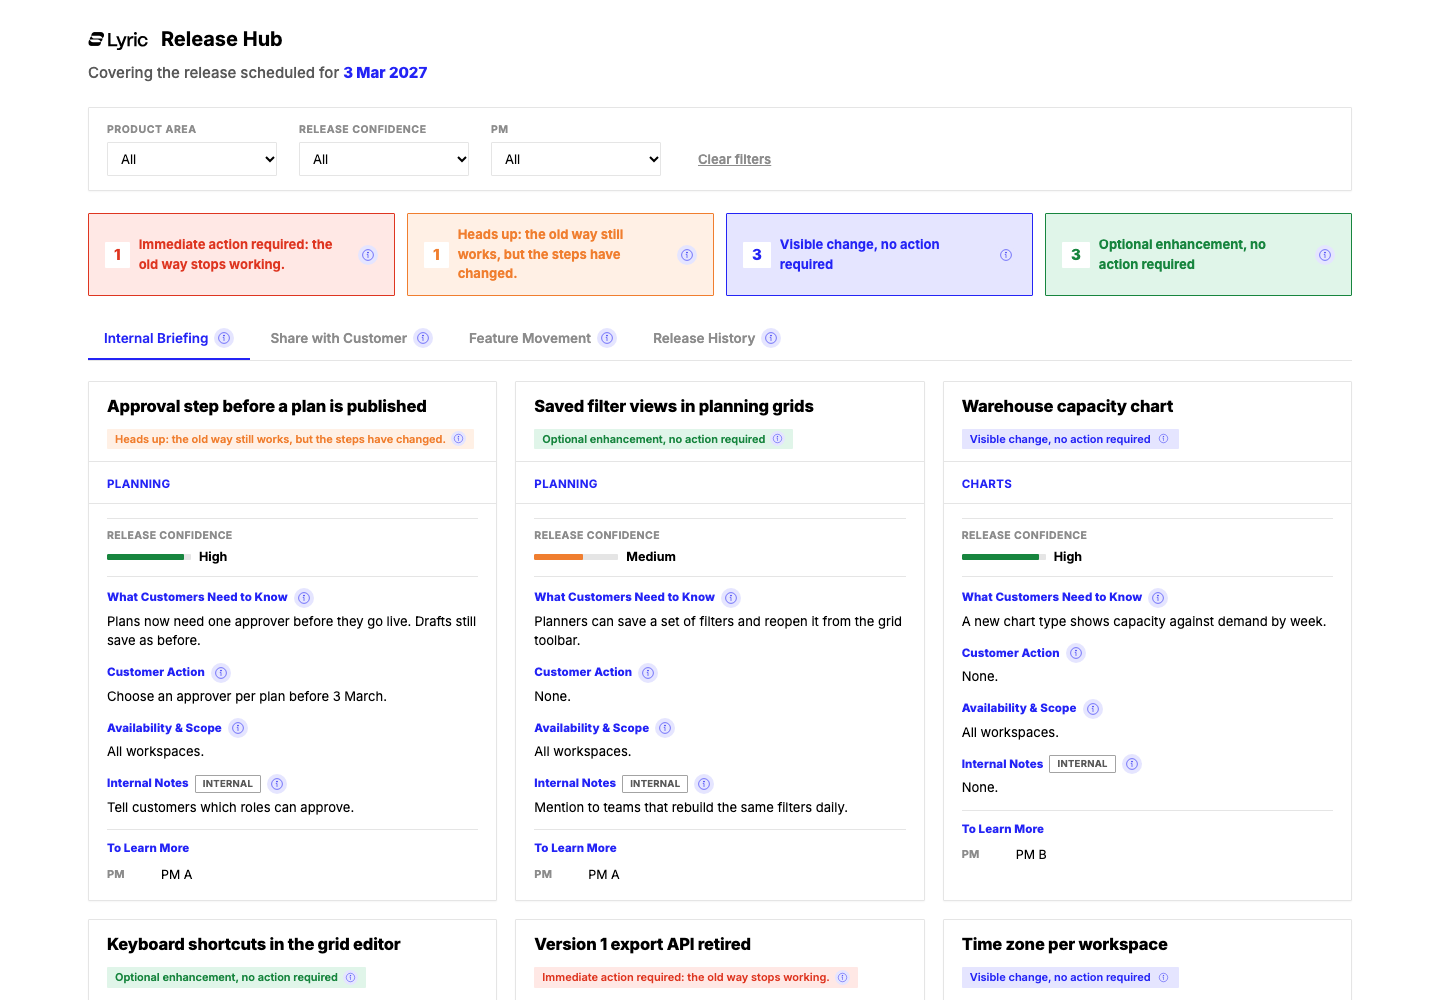
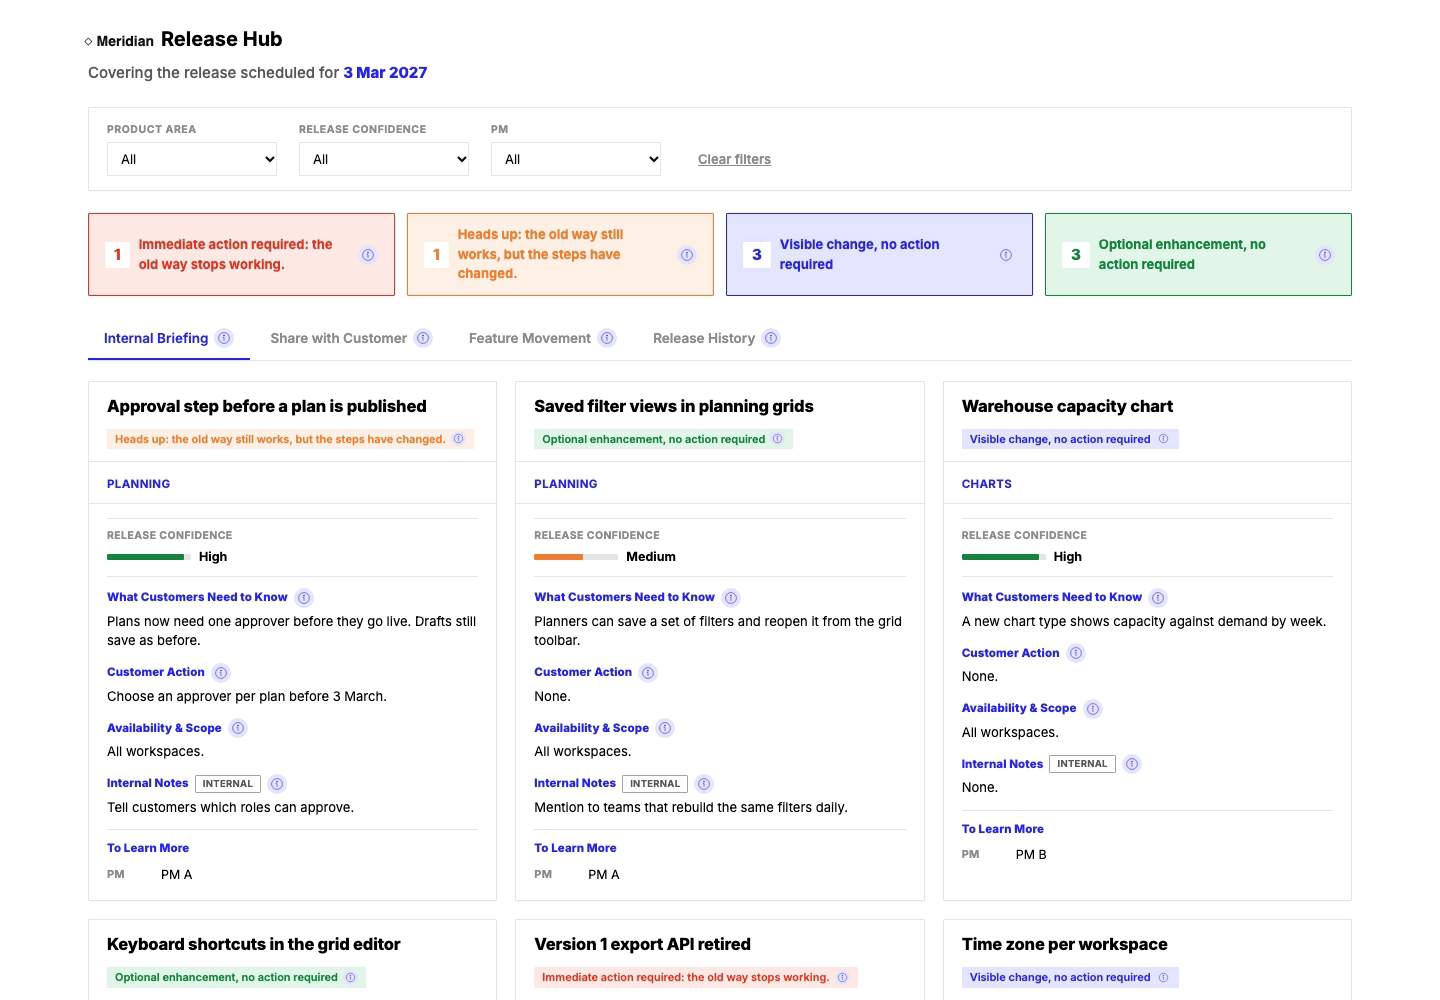
Rewrite /work with new copy, reframe prototypes, mask remaining images
- /work: Selected work copy with four featured cards and Leading the team
- Prototypes case study: prototypes show stakeholders the plan before
  implementation; live links; no prototype count
- Remove three unmasked prototype screenshots; docs-as-code uses the
  masked role-navigation image
- Replace the company logo in the Release Hub image

diff --git a/src/css/custom.css b/src/css/custom.css
@@ -629,3 +629,38 @@ h3 { font-size: 1.15rem; line-height: 1.3; letter-spacing: -0.01em; }
 .pg-out td:first-child { white-space: nowrap; }
 .pg-clip { display: block; width: 100%; border: 1px solid var(--vp-rule); border-radius: 12px; box-shadow: var(--vp-shadow); background: #fff; }
 .rn-media--m { max-width: 420px; }
+
+/* ---------- /work ---------- */
+.wk-lede { font-size: 1.18rem; line-height: 1.6; color: var(--vp-ink-2); max-width: 46rem; margin-bottom: 1.8rem; }
+.wk-stats { display: grid; grid-template-columns: repeat(4, minmax(0, 1fr)); gap: 0.9rem; margin: 0 0 2.6rem; }
+.wk-stat { border: 1px solid var(--vp-rule); border-top: 3px solid var(--vp-accent); border-radius: 10px; background: var(--vp-card); padding: 1rem 1rem 1.05rem; }
+.wk-stat strong { display: block; font-family: var(--vp-display); font-size: 1.9rem; line-height: 1.1; letter-spacing: -0.02em; color: var(--vp-ink); margin-bottom: 0.4rem; }
+.wk-stat span { display: block; font-size: 0.84rem; line-height: 1.45; color: var(--vp-ink-2); }
+.wk-team { display: grid; grid-template-columns: repeat(3, minmax(0, 1fr)); gap: 0.9rem; margin: 0 0 2.6rem; }
+.wk-team > div { border-left: 2px solid var(--vp-accent); padding: 0.1rem 0 0 0.9rem; }
+.wk-team p { font-size: 0.92rem; color: var(--vp-ink-2); margin: 0.35rem 0 0; }
+.wk-k, .wk-meta { font: 500 0.68rem/1.3 var(--vp-mono); text-transform: uppercase; letter-spacing: 0.06em; color: var(--vp-ink-3); }
+.wk-case { display: grid; grid-template-columns: minmax(0, 0.9fr) minmax(0, 1.1fr); gap: 1.8rem; align-items: start; border: 1px solid var(--vp-rule); border-radius: 14px; background: var(--vp-card); padding: 1.4rem; margin: 0 0 1.4rem; box-shadow: var(--vp-shadow); }
+.wk-case__img { display: block; border: 1px solid var(--vp-rule); border-radius: 10px; overflow: hidden; background: #fff; aspect-ratio: 4 / 3; }
+.wk-case__img img { width: 100%; height: 100%; object-fit: cover; object-position: top left; display: block; transition: transform 300ms ease; }
+.wk-case__img:hover img { transform: scale(1.02); }
+.wk-case__body { font-size: 0.93rem; }
+.wk-case__body h3 { margin: 0.35rem 0 0.5rem; font-size: 1.25rem; }
+.wk-out { font-family: var(--vp-display); font-size: 1.08rem; line-height: 1.45; color: var(--vp-ink); font-weight: 500; margin-bottom: 0.9rem; }
+.wk-case__body ul { padding-left: 1.1rem; margin: 0.3rem 0 0.9rem; }
+.wk-case__body li { margin-bottom: 0.3rem; color: var(--vp-ink-2); }
+.wk-case__body p { margin-bottom: 0.8rem; }
+.wk-chips { display: flex; flex-wrap: wrap; gap: 0.4rem; margin-top: 0.4rem; }
+.wk-chips span { font-size: 0.74rem; color: var(--vp-ink-2); background: var(--vp-paper); border: 1px solid var(--vp-rule); border-radius: 999px; padding: 0.22rem 0.6rem; }
+.wk-quote { margin: 0.4rem 0 0.9rem; padding: 0.6rem 0.9rem; border-left: 3px solid var(--vp-accent); background: var(--vp-accent-soft); font-family: var(--vp-serif); font-size: 1.05rem; }
+.wk-quote span { display: block; font-family: var(--vp-sans); font-size: 0.76rem; color: var(--vp-ink-3); margin-top: 0.2rem; }
+.wk-more { display: grid; grid-template-columns: repeat(3, minmax(0, 1fr)); gap: 0.9rem; margin: 0 0 2.4rem; }
+.wk-more a { display: block; border: 1px solid var(--vp-rule); border-radius: 10px; background: var(--vp-card); padding: 0.95rem 1rem; color: inherit; transition: border-color 200ms, transform 200ms; }
+.wk-more a:hover { text-decoration: none; border-color: var(--vp-accent); transform: translateY(-2px); }
+.wk-more strong { display: block; color: var(--vp-accent); margin-bottom: 0.3rem; }
+.wk-more span { display: block; font-size: 0.86rem; color: var(--vp-ink-2); line-height: 1.45; }
+.wk-end { border-top: 1px solid var(--vp-rule); padding-top: 1.2rem; color: var(--vp-ink-2); }
+@media (max-width: 996px) { .wk-stats { grid-template-columns: repeat(2, minmax(0, 1fr)); } .wk-case { grid-template-columns: 1fr; } .wk-more { grid-template-columns: repeat(2, minmax(0, 1fr)); } }
+@media (max-width: 600px) { .wk-team, .wk-more { grid-template-columns: 1fr; } .wk-stat strong { font-size: 1.6rem; } }
+@media (min-width: 997px) { .wk-case__img { position: sticky; top: 84px; } }
+.wk-case__body h3 { margin-top: 0.2rem; } .wk-links { margin: 0.4rem 0 0; }

diff --git a/docs/work/index.md b/docs/work/index.md
@@ -1,32 +1,66 @@
 ---
-title: Work
-description: Six projects from two years as head of documentation at Lyric, with my part in each and whether it shipped, is in use, or is a proposal.
+title: Selected work
+description: Product documentation at Lyric, starting from what someone needs to know to make their next decision.
 sidebar_position: 0
+sidebar_label: Work
 slug: /work
+hide_table_of_contents: true
 ---
 
-# Work
+# Selected work
 
-Six projects from the last two years at Lyric, an AI supply chain planning platform. Each page says what my part was and where the work stands. Numbers come from the records I kept; where something was not measured, the page says so.
+<p className="wk-lede">I lead Product Documentation at Lyric, an AI supply chain planning platform. My work starts with a practical question: what does someone need to know to make their next decision? That might be a customer planning for a change, a Product team deciding what to ship, or a writer checking how a feature actually works.</p>
 
-| | Project | Status | Why it mattered |
-| --- | --- | --- | --- |
-| 1 | [Moving four documentation spaces to docs-as-code](./docs-as-code.md) | Shipped June 2026 | Engineers now document their own releases through pull requests. |
-| 2 | [I prototype it before anyone builds it](./prototypes.mdx) | 2025 to 2026 | Navigation, versioning, landing pages and search were decided on a clickable prototype. Four of six shipped or were adopted. |
-| 3 | [Docs readers can try](./try-it-docs.md) | Shipped 2026 | Readers check their own case in a calculator instead of reading a matrix. |
-| 4 | [Ask AI: making the docs answerable by an assistant](./ask-ai.md) | Live since August 2026 | Fully correct answers rose from about four in ten to two in three between evaluation rounds. |
-| 5 | [The Release Hub](./release-hub.md) | In use since July 2026 | Customer success sees what changes for customers about eight days before each release. |
-| 6 | [Release notes and release videos](./release-notes.md) | Every release since February 2025 | More than 40 releases, with a video and podcast format I introduced. |
+## Featured work
 
-## More work
+<div className="wk-case">
+<a className="wk-case__img" href="./roadmap"><img src="/img/work/roadmap-dashboard.png" alt="Roadmap dashboard, shown with fictional epics" loading="lazy" /></a>
+<div className="wk-case__body">
 
-- [Deciding what to document next from the data](./docs-analytics.md): a support-ticket analysis, search analytics and a screenshot audit. October 2026.
-- [A roadmap leadership can read](./roadmap.md): a Jira-fed roadmap dashboard in plain English. In use since September 2026.
-- [Help inside the product](./in-product-help.md): guided tours, beacons and tooltips. Running since June 2025.
-- [Videos](/videos): release walkthroughs, feature explainers and a release podcast.
+### One roadmap for two audiences
+
+Product needed to track what each team was building. Customers needed to see what was coming for the decisions they make about demand, supply, inventory, and transportation. I built two views from the same Jira-fed data: an internal roadmap organized by team and a customer-facing version organized by supply chain decision, with internal updates and ticket IDs removed. Leadership uses the internal view in its weekly update, and Sales has used the customer view in a roadmap presentation.
+
+<p className="wk-links"><a className="pg-link" href="./roadmap">Read the case study</a><a className="pg-link" href="/program-management">How the roadmap runs</a></p>
+</div>
+</div>
+
+<div className="wk-case">
+<a className="wk-case__img" href="./release-hub"><img src="/img/work/release-hub.png" alt="Release Hub board, shown with fictional release data" loading="lazy" /></a>
+<div className="wk-case__body">
+
+### Preparing customers for releases
+
+A feature list tells Customer Success what’s shipping. They also need to know which customers will have to change how they work, what to tell them, and when. I built the Release Hub around those questions and set up sprint checkpoints and pre-release briefings with Product and Customer Success. When we introduced separate development and production environments, I coordinated communications for two rollout cohorts, from the internal briefing through the customer email, release note, and walkthrough.
+
+<p className="wk-links"><a className="pg-link" href="./release-hub">The Release Hub</a><a className="pg-link" href="./release-notes">The rollout</a></p>
+</div>
+</div>
+
+<div className="wk-case">
+<a className="wk-case__img" href="./docs-as-code"><img src="/img/prototypes/role-based-ia.png" alt="Role-based navigation prototype for the new docs site" loading="lazy" /></a>
+<div className="wk-case__body">
+
+### A docs platform we could evolve
+
+Moving four documentation spaces from GitBook to Docusaurus gave us control over how readers find content and how we build and publish it. I led the content audit and information architecture, prototyped navigation around user roles, and added search analytics to see where readers came up empty. I also proposed versioning docs for individual analytics components, so readers could find instructions for the version they actually run.
+
+<p className="wk-links"><a className="pg-link" href="./docs-as-code">Read the case study</a><a className="pg-link" href="./prototypes">See the prototypes</a></p>
+</div>
+</div>
+
+<div className="wk-case">
+<a className="wk-case__img" href="/ai"><img src="/img/work/note-popup.png" alt="In-product help pop-up for a pre-built analytics note" loading="lazy" /></a>
+<div className="wk-case__body">
+
+### Using AI to ship better docs
+
+I set up a workflow that uses engineering pull requests and Jira tickets to investigate product changes and draft documentation with Claude. Writers review the draft and verify the behavior before it goes out. I also use Claude Code to build prototypes and submit changes to in-product help. The same approach powers a release-preview tool I built: it drafts what changed from a Jira ticket, and a writer decides what customers need to know or do.
+
+<p className="wk-links"><a className="pg-link" href="/ai">See the AI work</a><a className="pg-link" href="./ask-ai">The assistant evaluation</a></p>
+</div>
+</div>
 
 ## Leading the team
 
-I run hiring for the documentation team: about 20 technical-writer interviews between March 2025 and April 2026. I wrote the team's operating model, built a first-30-days onboarding path with a sign-off tracker, and set the review chain every page goes through before release: the writer tests it, a subject-matter expert checks it, and the product manager signs it off.
-
-Before Lyric: documentation manager at Aera Technology (Confluence to Document360 migration, standards and templates), API and SDK documentation at SnapLogic, and product documentation at Talentica and Siemens. Details on the [CV](/cv).
+I lead hiring, built a 30-day onboarding plan for new writers, and set clear responsibilities for release reviews. Writers test the instructions in the product, subject-matter experts check technical accuracy, and product managers sign off. New writers know what they’re expected to learn and deliver, and everyone knows who checks what before we publish.

diff --git a/docs/work/docs-as-code.md b/docs/work/docs-as-code.md
@@ -9,7 +9,7 @@ sidebar_label: Docs as code
 
 <span className="vp-eyebrow">Docs platform · shipped June 2026</span>
 
-![Persona-led information architecture prototype](/img/work/persona-led-ia-prototype.png)
+![Role-based navigation prototype](/img/prototypes/role-based-ia.png)
 
 **What.** Four documentation spaces (product guide, science notes, predictions, release notes) moved from GitBook to a Docusaurus site. Live on 20 June 2026; GitBook retired on 10 July.
 
